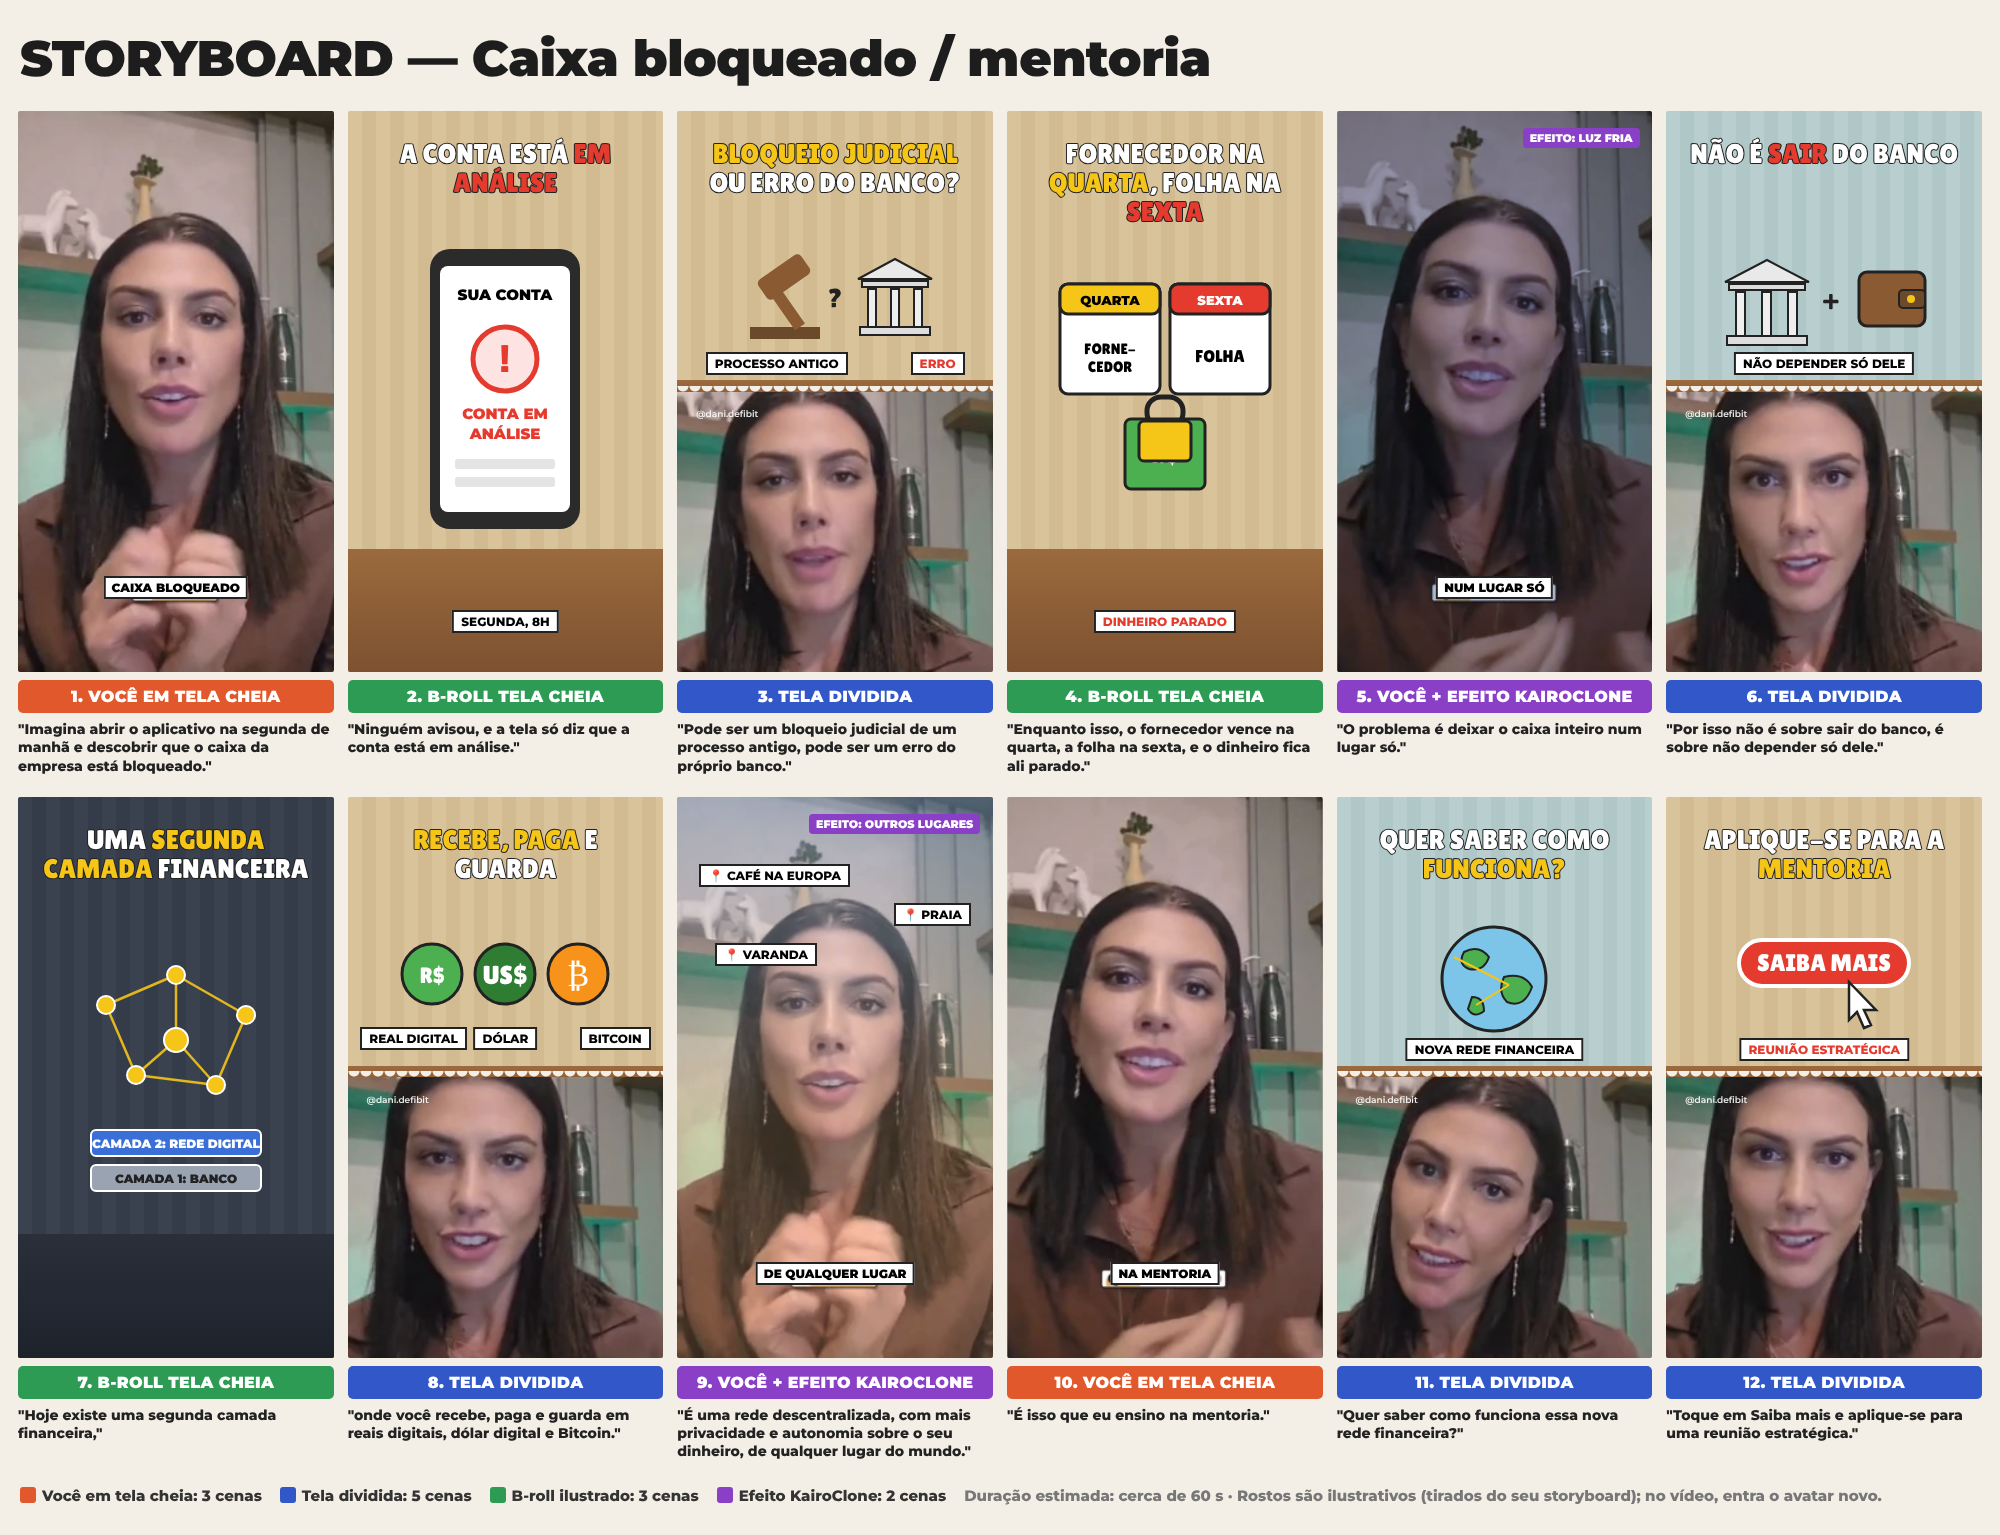
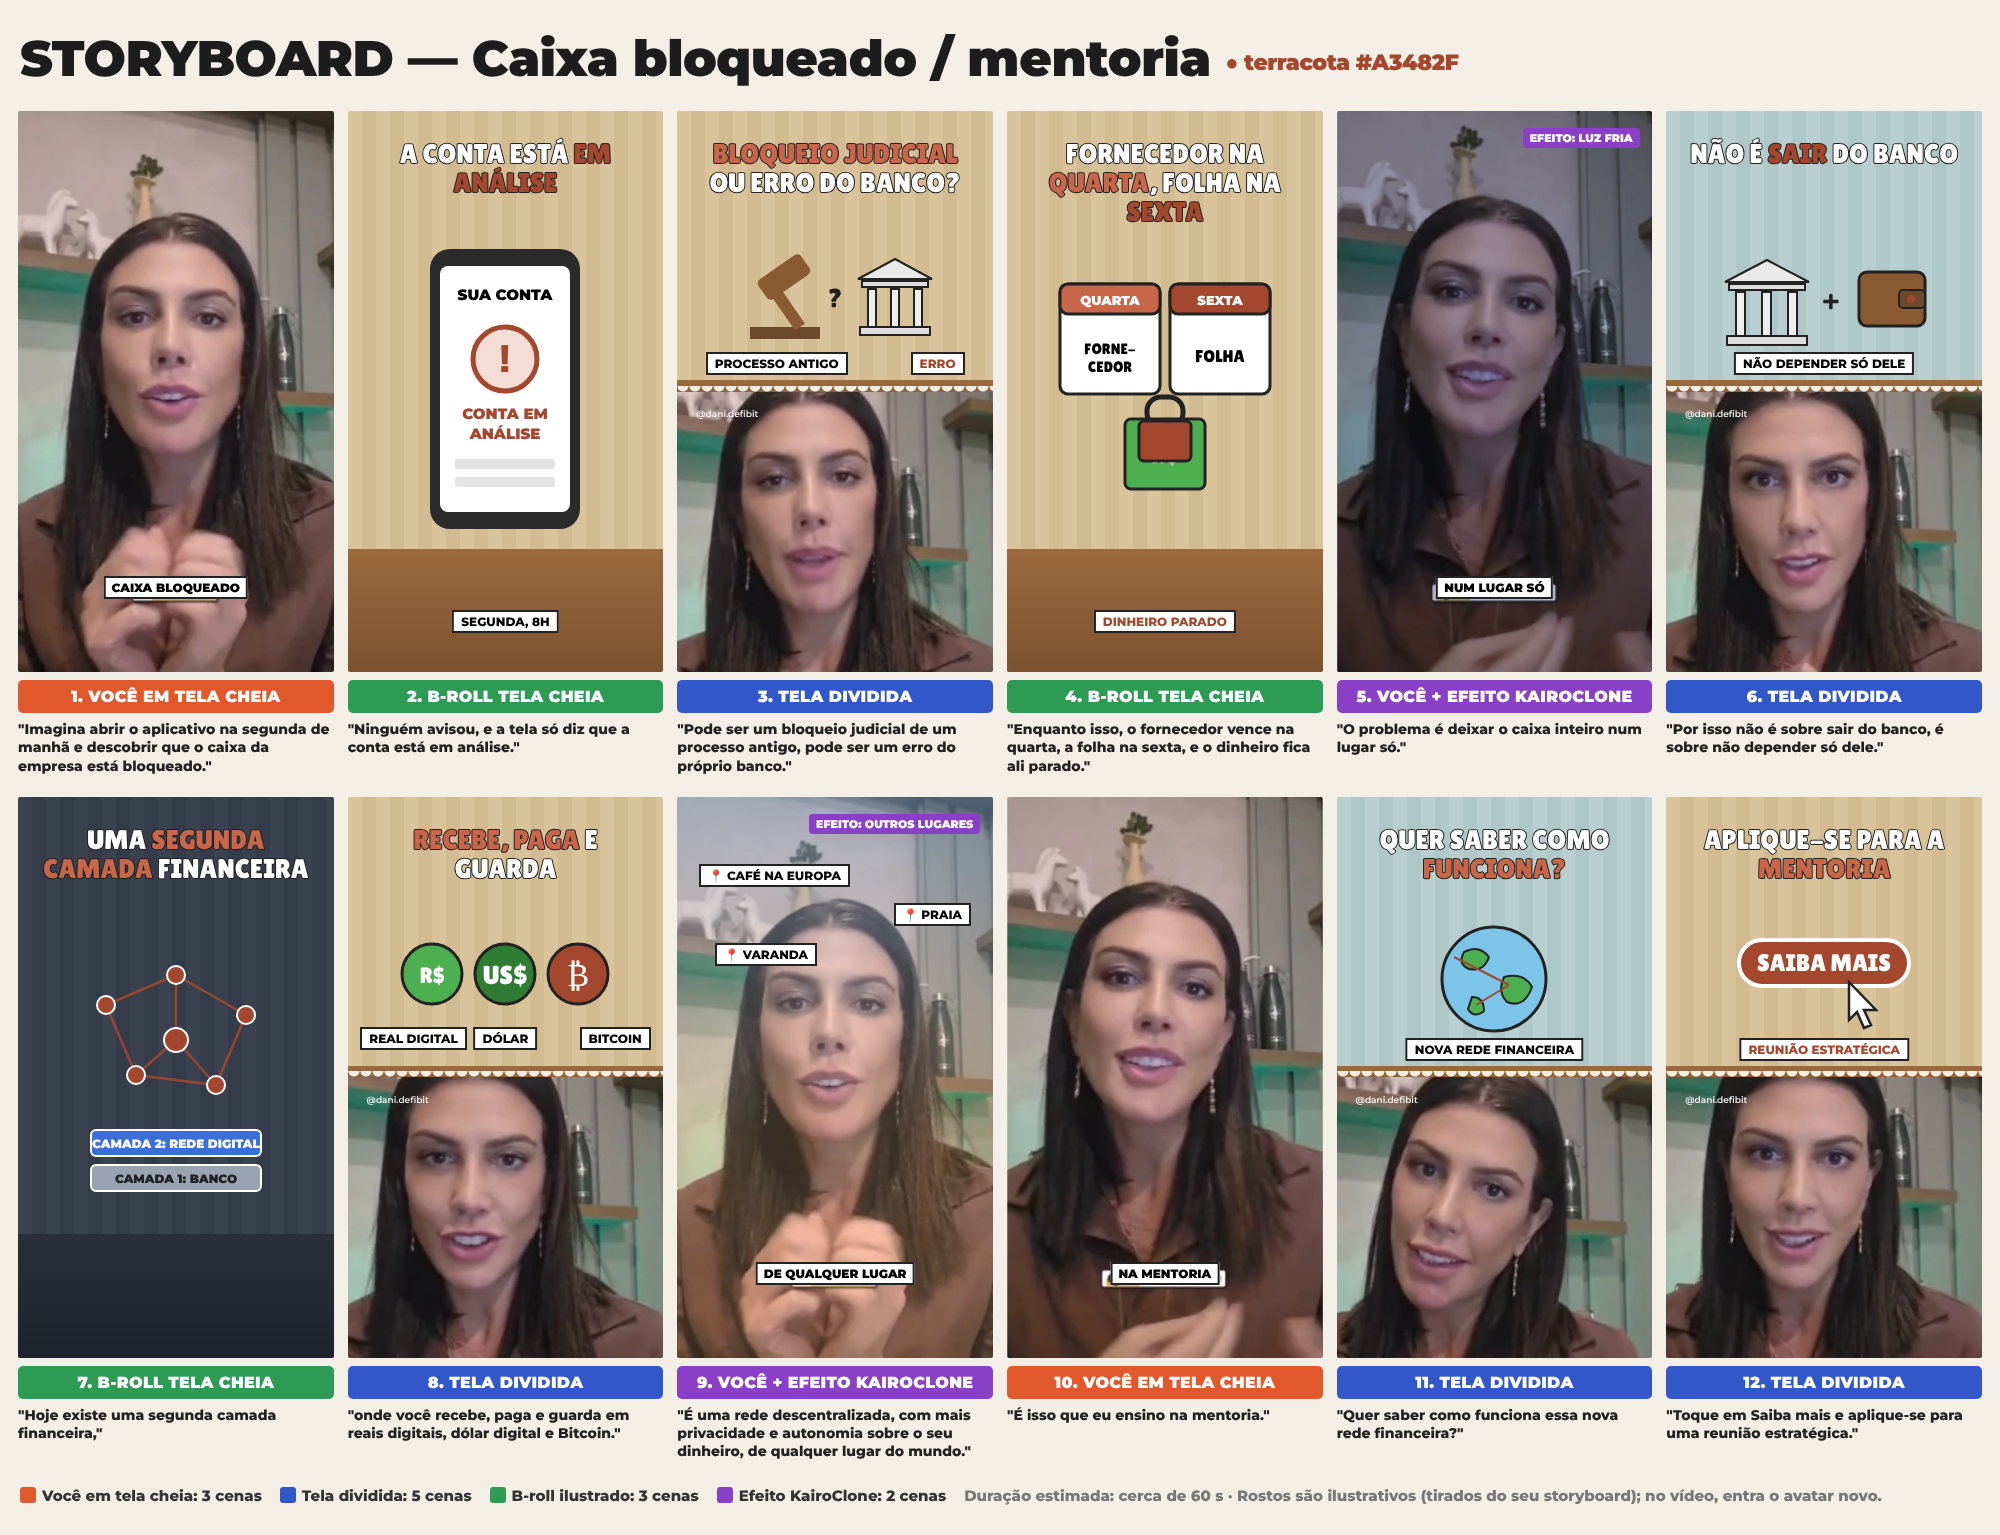
Storyboard Caixa bloqueado: destaques na cor da marca (terracota #A3482F)
Claude-Session: https://claude.ai/code/session_01Juk3T5gQfbE9siWSvS1i4V

diff --git a/storyboards/caixa-bloqueado/storyboard.html b/storyboards/caixa-bloqueado/storyboard.html
@@ -16,11 +16,11 @@ h1{font-weight:900;font-size:50px;color:#1d1d1d;margin:0 0 22px 2px;letter-spaci
 .floor.half{top:48%;height:6%}
 .title{position:absolute;top:5%;left:6%;right:6%;text-align:center;font-family:'Lilita One',sans-serif;font-size:27px;line-height:1.08;color:#fff;
  -webkit-text-stroke:2px #222;paint-order:stroke fill;text-transform:uppercase;z-index:3}
-.title .r{color:#e53b2f}.title .y{color:#f5c518}
+.title .r{color:#A3482F}.title .y{color:#C8664A}
 .ill{position:absolute;left:0;right:0;top:20%;height:30%;display:flex;align-items:center;justify-content:center;z-index:2}
 .ill.big{top:22%;height:55%}
 .tag{position:absolute;font-weight:800;font-size:12px;background:#fff;border:2px solid #222;padding:2px 7px;z-index:4;white-space:nowrap}
-.tag.red{color:#e53b2f}
+.tag.red{color:#A3482F}
 .face{position:absolute;left:0;right:0;bottom:0;height:50%;background-size:cover;background-position:center top;z-index:1}
 .face.full{height:100%;top:0}
 .torn{position:absolute;left:0;right:0;top:calc(50% - 6px);height:12px;z-index:3;
@@ -36,7 +36,7 @@ h1{font-weight:900;font-size:50px;color:#1d1d1d;margin:0 0 22px 2px;letter-spaci
 .legend{display:flex;gap:18px;margin:26px 0 0 2px;font-size:15px;font-weight:700;color:#333;align-items:center;flex-wrap:wrap}
 .legend span.sw{display:inline-block;width:16px;height:16px;border-radius:3px;margin-right:6px;vertical-align:-2px}
 </style></head><body>
-<h1>STORYBOARD — Caixa bloqueado / mentoria</h1>
+<h1>STORYBOARD — Caixa bloqueado / mentoria <span style="font-size:22px;color:#A3482F;vertical-align:middle">● terracota #A3482F</span></h1>
 <div class="grid">
 
 <!-- 1 -->
@@ -53,9 +53,9 @@ h1{font-weight:900;font-size:50px;color:#1d1d1d;margin:0 0 22px 2px;letter-spaci
  <div class="ill big"><svg width="170" height="290" viewBox="0 0 170 290">
   <rect x="10" y="5" width="150" height="280" rx="20" fill="#2b2b2b"/><rect x="20" y="22" width="130" height="246" rx="8" fill="#fff"/>
   <text x="85" y="56" font-family="Montserrat" font-weight="900" font-size="15" text-anchor="middle">SUA CONTA</text>
-  <circle cx="85" cy="115" r="32" fill="#fde3e1" stroke="#e53b2f" stroke-width="5"/><text x="85" y="128" font-family="Lilita One" font-size="38" fill="#e53b2f" text-anchor="middle">!</text>
-  <text x="85" y="175" font-family="Montserrat" font-weight="900" font-size="15" fill="#e53b2f" text-anchor="middle">CONTA EM</text>
-  <text x="85" y="195" font-family="Montserrat" font-weight="900" font-size="15" fill="#e53b2f" text-anchor="middle">ANÁLISE</text>
+  <circle cx="85" cy="115" r="32" fill="#f3ddd5" stroke="#A3482F" stroke-width="5"/><text x="85" y="128" font-family="Lilita One" font-size="38" fill="#A3482F" text-anchor="middle">!</text>
+  <text x="85" y="175" font-family="Montserrat" font-weight="900" font-size="15" fill="#A3482F" text-anchor="middle">CONTA EM</text>
+  <text x="85" y="195" font-family="Montserrat" font-weight="900" font-size="15" fill="#A3482F" text-anchor="middle">ANÁLISE</text>
   <rect x="35" y="215" width="100" height="10" rx="3" fill="#e4e4e4"/><rect x="35" y="233" width="100" height="10" rx="3" fill="#e4e4e4"/>
  </svg></div>
  <div class="tag" style="bottom:7%;left:50%;transform:translateX(-50%)">SEGUNDA, 8H</div>
@@ -84,14 +84,14 @@ h1{font-weight:900;font-size:50px;color:#1d1d1d;margin:0 0 22px 2px;letter-spaci
  <div class="wall"></div><div class="floor full"></div>
  <div class="title">FORNECEDOR NA <span class="y">QUARTA</span>, FOLHA NA <span class="r">SEXTA</span></div>
  <div class="ill big"><svg width="220" height="250" viewBox="0 0 220 250">
-  <g transform="translate(5,20)"><rect width="100" height="110" rx="8" fill="#fff" stroke="#222" stroke-width="3"/><rect width="100" height="30" rx="8" fill="#f5c518" stroke="#222" stroke-width="3"/>
-  <text x="50" y="21" font-family="Montserrat" font-weight="900" font-size="13" text-anchor="middle">QUARTA</text>
+  <g transform="translate(5,20)"><rect width="100" height="110" rx="8" fill="#fff" stroke="#222" stroke-width="3"/><rect width="100" height="30" rx="8" fill="#C8664A" stroke="#222" stroke-width="3"/>
+  <text x="50" y="21" font-family="Montserrat" font-weight="900" font-size="13" fill="#fff" text-anchor="middle">QUARTA</text>
   <text x="50" y="70" font-family="Lilita One" font-size="15" text-anchor="middle">FORNE-</text><text x="50" y="88" font-family="Lilita One" font-size="15" text-anchor="middle">CEDOR</text></g>
-  <g transform="translate(115,20)"><rect width="100" height="110" rx="8" fill="#fff" stroke="#222" stroke-width="3"/><rect width="100" height="30" rx="8" fill="#e53b2f" stroke="#222" stroke-width="3"/>
+  <g transform="translate(115,20)"><rect width="100" height="110" rx="8" fill="#fff" stroke="#222" stroke-width="3"/><rect width="100" height="30" rx="8" fill="#A3482F" stroke="#222" stroke-width="3"/>
   <text x="50" y="21" font-family="Montserrat" font-weight="900" font-size="13" fill="#fff" text-anchor="middle">SEXTA</text>
   <text x="50" y="78" font-family="Lilita One" font-size="17" text-anchor="middle">FOLHA</text></g>
   <g transform="translate(70,155)"><rect width="80" height="70" rx="6" fill="#4caf50" stroke="#222" stroke-width="3"/><text x="40" y="44" font-family="Lilita One" font-size="24" fill="#fff" text-anchor="middle">R$</text>
-  <rect x="22" y="-22" width="36" height="30" rx="14" fill="none" stroke="#222" stroke-width="5"/><rect x="14" y="2" width="52" height="40" rx="5" fill="#f5c518" stroke="#222" stroke-width="3"/></g>
+  <rect x="22" y="-22" width="36" height="30" rx="14" fill="none" stroke="#222" stroke-width="5"/><rect x="14" y="2" width="52" height="40" rx="5" fill="#A3482F" stroke="#222" stroke-width="3"/></g>
  </svg></div>
  <div class="tag red" style="bottom:7%;left:50%;transform:translateX(-50%)">DINHEIRO PARADO</div>
 </div><div class="lbl b">4. B-ROLL TELA CHEIA</div>
@@ -113,7 +113,7 @@ h1{font-weight:900;font-size:50px;color:#1d1d1d;margin:0 0 22px 2px;letter-spaci
   <g transform="translate(18,18)"><polygon points="40,0 82,22 -2,22" fill="#e9e9e9" stroke="#222" stroke-width="2"/><rect x="2" y="24" width="76" height="6" fill="#ddd" stroke="#222" stroke-width="2"/>
   <rect x="9" y="32" width="9" height="44" fill="#eee" stroke="#222" stroke-width="2"/><rect x="35" y="32" width="9" height="44" fill="#eee" stroke="#222" stroke-width="2"/><rect x="61" y="32" width="9" height="44" fill="#eee" stroke="#222" stroke-width="2"/><rect x="0" y="76" width="80" height="9" fill="#ddd" stroke="#222" stroke-width="2"/></g>
   <text x="122" y="70" font-family="Lilita One" font-size="30" text-anchor="middle" fill="#222">+</text>
-  <g transform="translate(150,30)"><rect width="66" height="54" rx="8" fill="#8a5a33" stroke="#222" stroke-width="3"/><rect x="40" y="18" width="26" height="18" rx="4" fill="#6b4a2b" stroke="#222" stroke-width="2"/><circle cx="52" cy="27" r="4" fill="#f5c518"/></g>
+  <g transform="translate(150,30)"><rect width="66" height="54" rx="8" fill="#8a5a33" stroke="#222" stroke-width="3"/><rect x="40" y="18" width="26" height="18" rx="4" fill="#6b4a2b" stroke="#222" stroke-width="2"/><circle cx="52" cy="27" r="4" fill="#A3482F"/></g>
  </svg></div>
  <div class="tag" style="top:43%;left:50%;transform:translateX(-50%)">NÃO DEPENDER SÓ DELE</div>
  <div class="torn"></div>
@@ -127,8 +127,8 @@ h1{font-weight:900;font-size:50px;color:#1d1d1d;margin:0 0 22px 2px;letter-spaci
  <div class="wall dark"></div><div class="floor full" style="background:linear-gradient(#2a2f3a,#1e222b)"></div>
  <div class="title">UMA <span class="y">SEGUNDA CAMADA</span> FINANCEIRA</div>
  <div class="ill big"><svg width="220" height="260" viewBox="0 0 220 260">
-  <g stroke="#f5c518" stroke-width="2.5" opacity=".9"><line x1="40" y1="60" x2="110" y2="30"/><line x1="110" y1="30" x2="180" y2="70"/><line x1="40" y1="60" x2="70" y2="130"/><line x1="180" y1="70" x2="150" y2="140"/><line x1="70" y1="130" x2="150" y2="140"/><line x1="110" y1="30" x2="110" y2="95"/><line x1="110" y1="95" x2="70" y2="130"/><line x1="110" y1="95" x2="150" y2="140"/></g>
-  <g fill="#f5c518" stroke="#fff" stroke-width="2"><circle cx="40" cy="60" r="9"/><circle cx="110" cy="30" r="9"/><circle cx="180" cy="70" r="9"/><circle cx="70" cy="130" r="9"/><circle cx="150" cy="140" r="9"/><circle cx="110" cy="95" r="12"/></g>
+  <g stroke="#A3482F" stroke-width="2.5" opacity=".9"><line x1="40" y1="60" x2="110" y2="30"/><line x1="110" y1="30" x2="180" y2="70"/><line x1="40" y1="60" x2="70" y2="130"/><line x1="180" y1="70" x2="150" y2="140"/><line x1="70" y1="130" x2="150" y2="140"/><line x1="110" y1="30" x2="110" y2="95"/><line x1="110" y1="95" x2="70" y2="130"/><line x1="110" y1="95" x2="150" y2="140"/></g>
+  <g fill="#A3482F" stroke="#fff" stroke-width="2"><circle cx="40" cy="60" r="9"/><circle cx="110" cy="30" r="9"/><circle cx="180" cy="70" r="9"/><circle cx="70" cy="130" r="9"/><circle cx="150" cy="140" r="9"/><circle cx="110" cy="95" r="12"/></g>
   <rect x="25" y="185" width="170" height="26" rx="5" fill="#3a6fd8" stroke="#fff" stroke-width="2"/><text x="110" y="203" font-family="Montserrat" font-weight="900" font-size="12" fill="#fff" text-anchor="middle">CAMADA 2: REDE DIGITAL</text>
   <rect x="25" y="220" width="170" height="26" rx="5" fill="#9aa3b2" stroke="#fff" stroke-width="2"/><text x="110" y="238" font-family="Montserrat" font-weight="900" font-size="12" fill="#222" text-anchor="middle">CAMADA 1: BANCO</text>
  </svg></div>
@@ -142,7 +142,7 @@ h1{font-weight:900;font-size:50px;color:#1d1d1d;margin:0 0 22px 2px;letter-spaci
  <div class="ill" style="top:19%;height:28%"><svg width="230" height="130" viewBox="0 0 230 130">
   <g transform="translate(10,25)"><circle cx="32" cy="32" r="30" fill="#4caf50" stroke="#222" stroke-width="3"/><text x="32" y="41" font-family="Lilita One" font-size="22" fill="#fff" text-anchor="middle">R$</text></g>
   <g transform="translate(83,25)"><circle cx="32" cy="32" r="30" fill="#2e7d32" stroke="#222" stroke-width="3"/><text x="32" y="42" font-family="Lilita One" font-size="26" fill="#fff" text-anchor="middle">US$</text></g>
-  <g transform="translate(156,25)"><circle cx="32" cy="32" r="30" fill="#f7931a" stroke="#222" stroke-width="3"/><text x="32" y="44" font-family="Lilita One" font-size="32" fill="#fff" text-anchor="middle">₿</text></g>
+  <g transform="translate(156,25)"><circle cx="32" cy="32" r="30" fill="#A3482F" stroke="#222" stroke-width="3"/><text x="32" y="44" font-family="Lilita One" font-size="32" fill="#fff" text-anchor="middle">₿</text></g>
  </svg></div>
  <div class="tag" style="top:41%;left:4%">REAL DIGITAL</div><div class="tag" style="top:41%;left:50%;transform:translateX(-50%)">DÓLAR</div><div class="tag" style="top:41%;right:4%">BITCOIN</div>
  <div class="torn"></div>
@@ -175,7 +175,7 @@ h1{font-weight:900;font-size:50px;color:#1d1d1d;margin:0 0 22px 2px;letter-spaci
  <div class="ill" style="top:19%;height:28%"><svg width="200" height="130" viewBox="0 0 200 130">
   <circle cx="100" cy="62" r="52" fill="#7cc4e8" stroke="#222" stroke-width="3"/>
   <path d="M70 35 q15 -8 25 5 q-5 15 -20 12 q-12 -5 -5 -17z M110 60 q20 -5 28 10 q-8 22 -25 15 q-10 -10 -3 -25z M78 80 q12 0 12 14 q-10 8 -16 -2z" fill="#4caf50" stroke="#222" stroke-width="2"/>
-  <g stroke="#f5c518" stroke-width="2"><line x1="60" y1="40" x2="115" y2="68"/><line x1="115" y1="68" x2="82" y2="88"/></g>
+  <g stroke="#A3482F" stroke-width="2"><line x1="60" y1="40" x2="115" y2="68"/><line x1="115" y1="68" x2="82" y2="88"/></g>
  </svg></div>
  <div class="tag" style="top:43%;left:50%;transform:translateX(-50%)">NOVA REDE FINANCEIRA</div>
  <div class="torn"></div>
@@ -189,7 +189,7 @@ h1{font-weight:900;font-size:50px;color:#1d1d1d;margin:0 0 22px 2px;letter-spaci
  <div class="wall"></div><div class="floor half"></div>
  <div class="title">APLIQUE-SE PARA A <span class="y">MENTORIA</span></div>
  <div class="ill" style="top:20%;height:27%"><svg width="210" height="130" viewBox="0 0 210 130">
-  <rect x="20" y="20" width="170" height="46" rx="23" fill="#e53b2f" stroke="#fff" stroke-width="4"/><text x="105" y="51" font-family="Lilita One" font-size="24" fill="#fff" text-anchor="middle">SAIBA MAIS</text>
+  <rect x="20" y="20" width="170" height="46" rx="23" fill="#A3482F" stroke="#fff" stroke-width="4"/><text x="105" y="51" font-family="Lilita One" font-size="24" fill="#fff" text-anchor="middle">SAIBA MAIS</text>
   <g transform="translate(120,62)"><path d="M10 0 v38 l8 -8 l7 16 l7 -3 l-7 -15 h12z" fill="#fff" stroke="#222" stroke-width="2.5"/></g>
  </svg></div>
  <div class="tag red" style="top:43%;left:50%;transform:translateX(-50%)">REUNIÃO ESTRATÉGICA</div>
